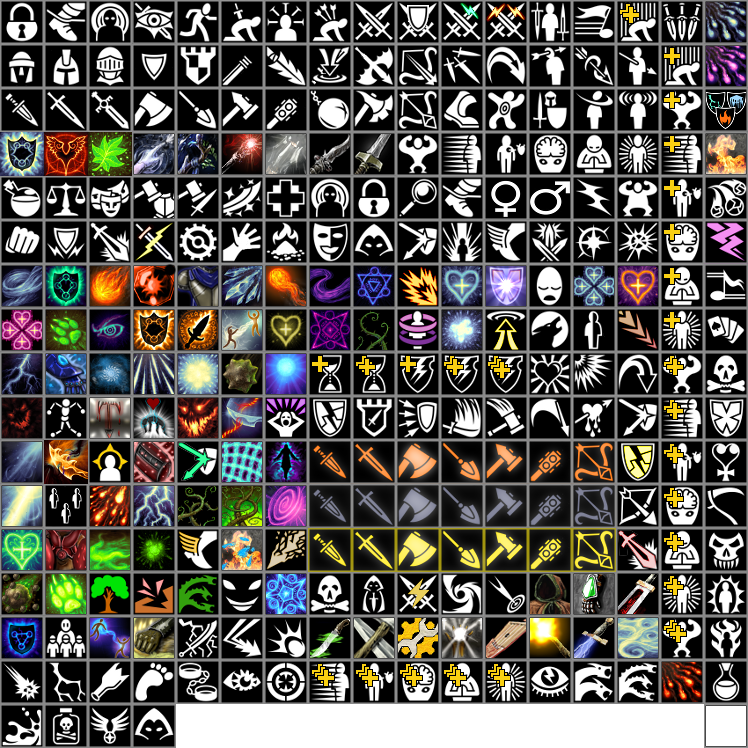
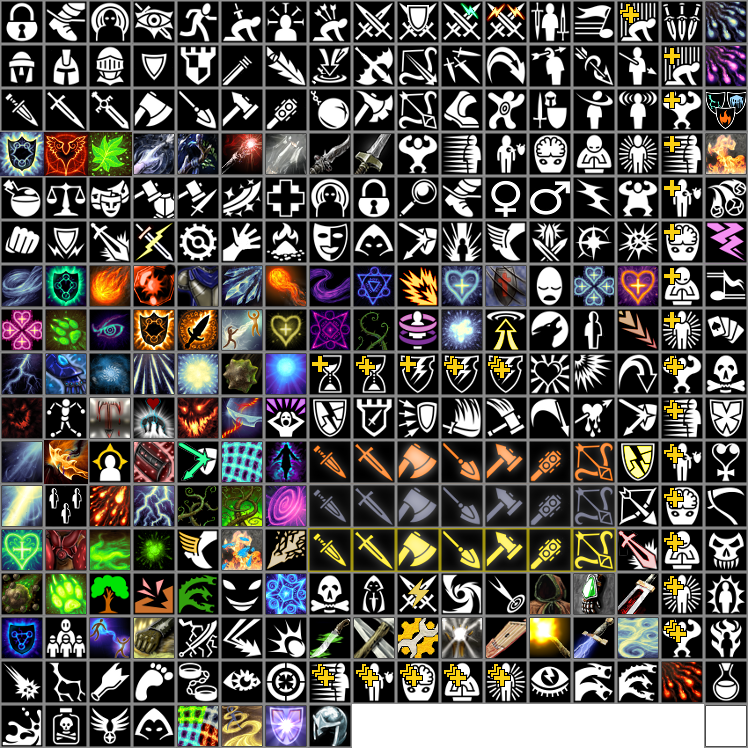
finished war wizard specialization

Changed region(s): [[0.2152, 0.9225, 0.492, 1.0], [0.6457, 0.3382, 0.7072, 0.4305]]

diff --git a/core/scripts/spells/juggernaut.js b/core/scripts/spells/juggernaut.js
@@ -1,0 +1,52 @@
+function onActivate(game, slot) {
+	var targeter = game.createListTargeter(slot);
+	targeter.addAllowedCreature(slot.getParent());
+	targeter.activate();
+}
+
+function onTargetSelect(game, targeter) {
+	var spell = targeter.getSlot().getAbility();
+	var parent = targeter.getParent();
+	var target = targeter.getSelectedCreature();
+	var casterLevel = parent.getCasterLevel();
+	
+	var lvls = parent.getRoles().getLevel("War Wizard");
+	
+	var duration = parseInt(2 + lvls / 3);
+	
+	targeter.getSlot().setActiveRoundsLeft(duration);
+	targeter.getSlot().activate();
+	
+	if (!spell.checkSpellFailure(parent)) return;
+	
+	var effect = targeter.getSlot().createEffect();
+	effect.setDuration(duration);
+	effect.setTitle(spell.getName());
+	effect.getBonuses().addBonus('Str', 3 + parseInt(lvls / 3));
+	effect.getBonuses().addBonus('Attack', lvls * 3);
+	effect.getBonuses().addBonus('Damage', lvls * 6);
+	effect.getBonuses().add("ImmobilizationImmunity");
+	
+	effect.getBonuses().addPenalty("SpellFailure", -30);
+	
+	var generator = game.createParticleGenerator("Line", "Continuous", "particles/plus", 2.0);
+	generator.setLineStart(-10.0, 0.0);
+	generator.setLineEnd(10.0, 0.0);
+	generator.setDurationInfinite();
+	
+	var position = parent.getScreenPosition();
+	generator.setPosition(position.x, position.y - 20.0);
+	generator.setStopParticlesAtOpaque(false);
+	generator.setDrawParticlesInOpaque(true);
+	generator.setVelocityDistribution(game.getFixedAngleDistribution(10.0, 15.0, -3.14159 / 2));
+	generator.setDurationDistribution(game.getUniformDistribution(1.5, 2.2));
+	generator.setAlphaSpeedDistribution(game.getFixedDistribution(-0.5));
+	generator.setAlphaDistribution(game.getFixedDistribution(1.0));
+	generator.setRedDistribution(game.getFixedDistribution(1.0));
+	generator.setGreenDistribution(game.getUniformDistribution(0.0, 0.2));
+	generator.setBlueDistribution(game.getFixedDistribution(0.0));
+	
+	effect.addAnimation(generator);
+	
+	target.applyEffect(effect);
+}

diff --git a/core/scripts/spells/energyImmunity.js b/core/scripts/spells/energyImmunity.js
@@ -1,0 +1,46 @@
+function onActivate(game, slot) {
+	var targeter = game.createListTargeter(slot);
+	targeter.addAllowedCreature(slot.getParent());
+	targeter.activate();
+}
+
+function onTargetSelect(game, targeter) {
+	var spell = targeter.getSlot().getAbility();
+	var parent = targeter.getParent();
+	var target = targeter.getSelectedCreature();
+	var casterLevel = parent.getCasterLevel();
+	
+	var lvls = parent.getRoles().getLevel("War Wizard");
+	
+	var duration = parseInt(2 + lvls / 3);
+	
+	targeter.getSlot().setActiveRoundsLeft(duration);
+	targeter.getSlot().activate();
+	
+	if (!spell.checkSpellFailure(parent)) return;
+	
+	var effect = targeter.getSlot().createEffect();
+	effect.setDuration(duration);
+	effect.setTitle(spell.getName());
+	effect.getBonuses().addDamageImmunity("Fire", 100);
+	effect.getBonuses().addDamageImmunity("Cold", 100);
+	effect.getBonuses().addDamageImmunity("Acid", 100);
+	effect.getBonuses().addDamageImmunity("Electrical", 100);
+	effect.getBonuses().addBonus("SpellResistance", 100);
+	
+	effect.getBonuses().addPenalty("SpellFailure", -100);
+	
+	var g1 = game.getBaseParticleGenerator("continuousRing");
+	g1.setPosition(target.getPosition());
+	
+	g1.setRedDistribution(game.getUniformDistribution(0.5, 1.0));
+	g1.setGreenDistribution(game.getUniformDistribution(0.5, 1.0));
+	g1.setBlueDistribution(game.getUniformDistribution(0.5, 1.0));
+	g1.setRedSpeedDistribution(game.getUniformDistribution(0.0, -1.0));
+	g1.setGreenSpeedDistribution(game.getUniformDistribution(0.0, -1.0));
+	g1.setBlueSpeedDistribution(game.getUniformDistribution(0.0, -1.0));
+	
+	effect.addAnimation(g1);
+	
+	target.applyEffect(effect);
+}

diff --git a/core/scripts/spells/invulnerability.js b/core/scripts/spells/invulnerability.js
@@ -1,0 +1,42 @@
+function onActivate(game, slot) {
+	var targeter = game.createListTargeter(slot);
+	targeter.addAllowedCreature(slot.getParent());
+	targeter.activate();
+}
+
+function onTargetSelect(game, targeter) {
+	var spell = targeter.getSlot().getAbility();
+	var parent = targeter.getParent();
+	var target = targeter.getSelectedCreature();
+	var casterLevel = parent.getCasterLevel();
+	
+	var lvls = parent.getRoles().getLevel("War Wizard");
+	
+	var duration = parseInt(2 + lvls / 3);
+	
+	targeter.getSlot().setActiveRoundsLeft(duration);
+	targeter.getSlot().activate();
+	
+	if (!spell.checkSpellFailure(parent)) return;
+	
+	var effect = targeter.getSlot().createEffect();
+	effect.setDuration(duration);
+	effect.setTitle(spell.getName());
+	effect.getBonuses().addDamageImmunity("Physical", 100);
+	
+	effect.getBonuses().addPenalty("SpellFailure", -100);
+	
+	var g1 = game.getBaseParticleGenerator("continuousRing");
+	g1.setPosition(target.getPosition());
+	
+	g1.setRedDistribution(game.getUniformDistribution(0.5, 0.6));
+	g1.setGreenDistribution(game.getUniformDistribution(0.5, 0.6));
+	g1.setBlueDistribution(game.getUniformDistribution(0.5, 0.6));
+	g1.setRedSpeedDistribution(game.getUniformDistribution(0.0, -0.1));
+	g1.setGreenSpeedDistribution(game.getUniformDistribution(0.0, -0.1));
+	g1.setBlueSpeedDistribution(game.getUniformDistribution(0.0, -0.1));
+	
+	effect.addAnimation(g1);
+	
+	target.applyEffect(effect);
+}

diff --git a/core/scripts/spells/shield.js b/core/scripts/spells/shield.js
@@ -38,7 +38,7 @@ function onTargetSelect(game, targeter, type) {
 	var target = targeter.getSelectedCreature();
 	var casterLevel = parent.getCasterLevel();
 	
-	var duration = parseInt(3 + casterLevel / 2);
+	var duration = parseInt(3 + casterLevel / 3);
 	
 	targeter.getSlot().setActiveRoundsLeft(duration);
 	targeter.getSlot().activate();
@@ -81,7 +81,12 @@ function onTargetSelect(game, targeter, type) {
 	
 	effect.setDuration(duration);
 	effect.setTitle(spell.getName());
-	effect.getBonuses().addBonus('ArmorClass', 'Shield', 15 + casterLevel);
+	
+	var lvls = parent.getRoles().getLevel("War Wizard");
+	var acBonus = parseInt(15 + casterLevel + 4 * lvls);
+	
+	
+	effect.getBonuses().addBonus('ArmorClass', 'Shield', acBonus);
 	
 	target.applyEffect(effect);
 	

diff --git a/core/scripts/spells/breach.js b/core/scripts/spells/breach.js
@@ -62,7 +62,7 @@ function breachDefense(game, targeter) {
 	var target = targeter.getSelectedCreature();
 	
 	// go through the spells in a random order until we find one that is in effect
-	var spellsToRemove = shuffle( [ "HardenArmor", "AbsorbEnergy", "DeflectProjectiles", "Shield", "Chameleon", "Ward", "FortifyHealth", "LayerOfBark" ] );
+	var spellsToRemove = shuffle( [ "HardenArmor", "AbsorbEnergy", "DeflectProjectiles", "Shield", "Chameleon", "Ward", "FortifyHealth", "LayerOfBark", "EnergyImmunity", "Invulnerability" ] );
 	
 	for (var i = 0; i < spellsToRemove.length; i++) {
 		var spellID = spellsToRemove[i];

diff --git a/core/descriptions/roles/War Wizard.html b/core/descriptions/roles/War Wizard.html
@@ -5,3 +5,7 @@ The War Wizard is a special order of Mages that uses specially designed spells t
 <div style="margin-top: 1em;">
 Since War Wizards will tend to spend time on the front lines, <span style="font-family: blue">Constitution</span> will be very important to increase survivability.
 </div>
+
+<div style="margin-top: 1em;">
+War Wizards gain proficiency with Light Armor, Shields, and Small Swords at first level.
+</div>

diff --git a/src/net/sf/hale/rules/Faction.java b/src/net/sf/hale/rules/Faction.java
@@ -28,6 +28,13 @@ import net.sf.hale.loading.JSONOrderedObject;
 import net.sf.hale.loading.Saveable;
 import net.sf.hale.util.SimpleJSONObject;
 
+/**
+ * A faction is a group of creatures that work together in game.  Factions are either Friendly,
+ * Neutral, or Hostile towards each other
+ * @author Jared
+ *
+ */
+
 public class Faction {
 	public enum Relationship {
 		Friendly, Neutral, Hostile
@@ -35,6 +42,11 @@ public class Faction {
 	
 	private String name;
 	private Map<String, Relationship> relationships;
+	
+	/**
+	 * Creates a new Faction with the specified identifying name
+	 * @param name
+	 */
 	
 	public Faction(String name) {
 		this.name = name;

diff --git a/src/net/sf/hale/rules/Damage.java b/src/net/sf/hale/rules/Damage.java
@@ -47,7 +47,7 @@ public class Damage {
 	
 	public Damage(Creature parent) {
 		this.parent = parent;
-		this.totalDamage = 0;
+		this.totalDamage = -1;
 		
 		this.entries = new ArrayList<Entry>();
 	}
@@ -159,7 +159,12 @@ public class Damage {
 	 * @return the total amount of applied damage
 	 */
 	
-	public int getTotalAppliedDamage() { return totalDamage; }
+	public int getTotalAppliedDamage() {
+		if (totalDamage == -1)
+			throw new IllegalStateException("computeAppliedDamage must be called prior to getTotalAppliedDamage");
+		
+		return totalDamage;
+	}
 	
 	/**
 	 * Returns true if and only if this damage has a total (preapplied damage) of at least 1
